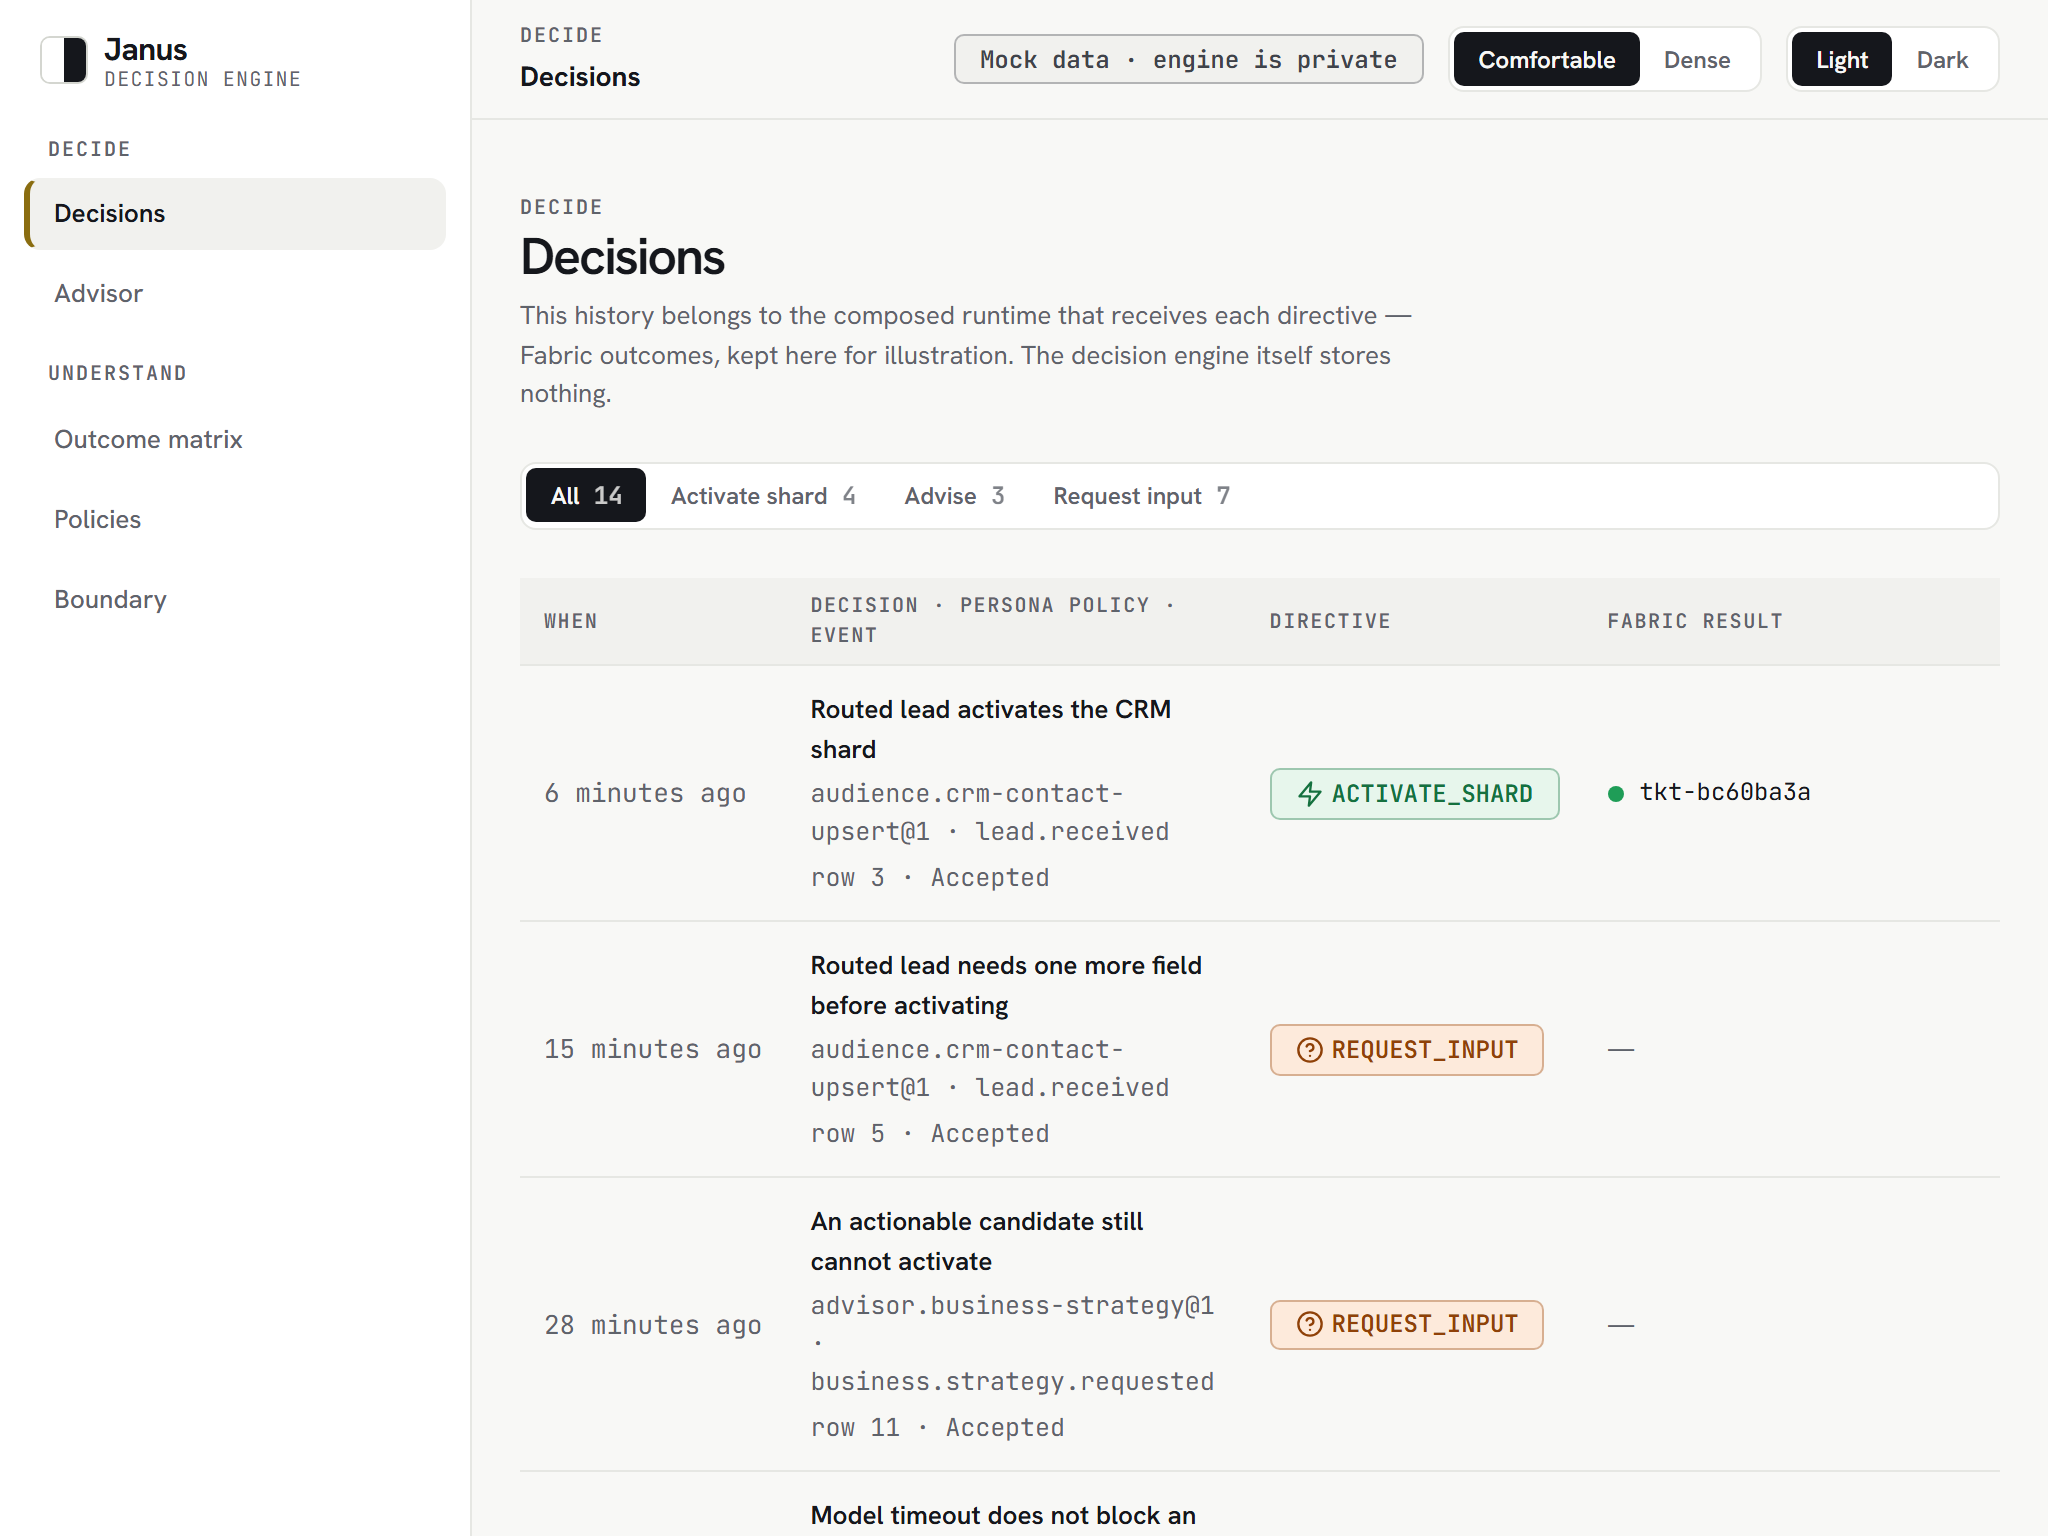
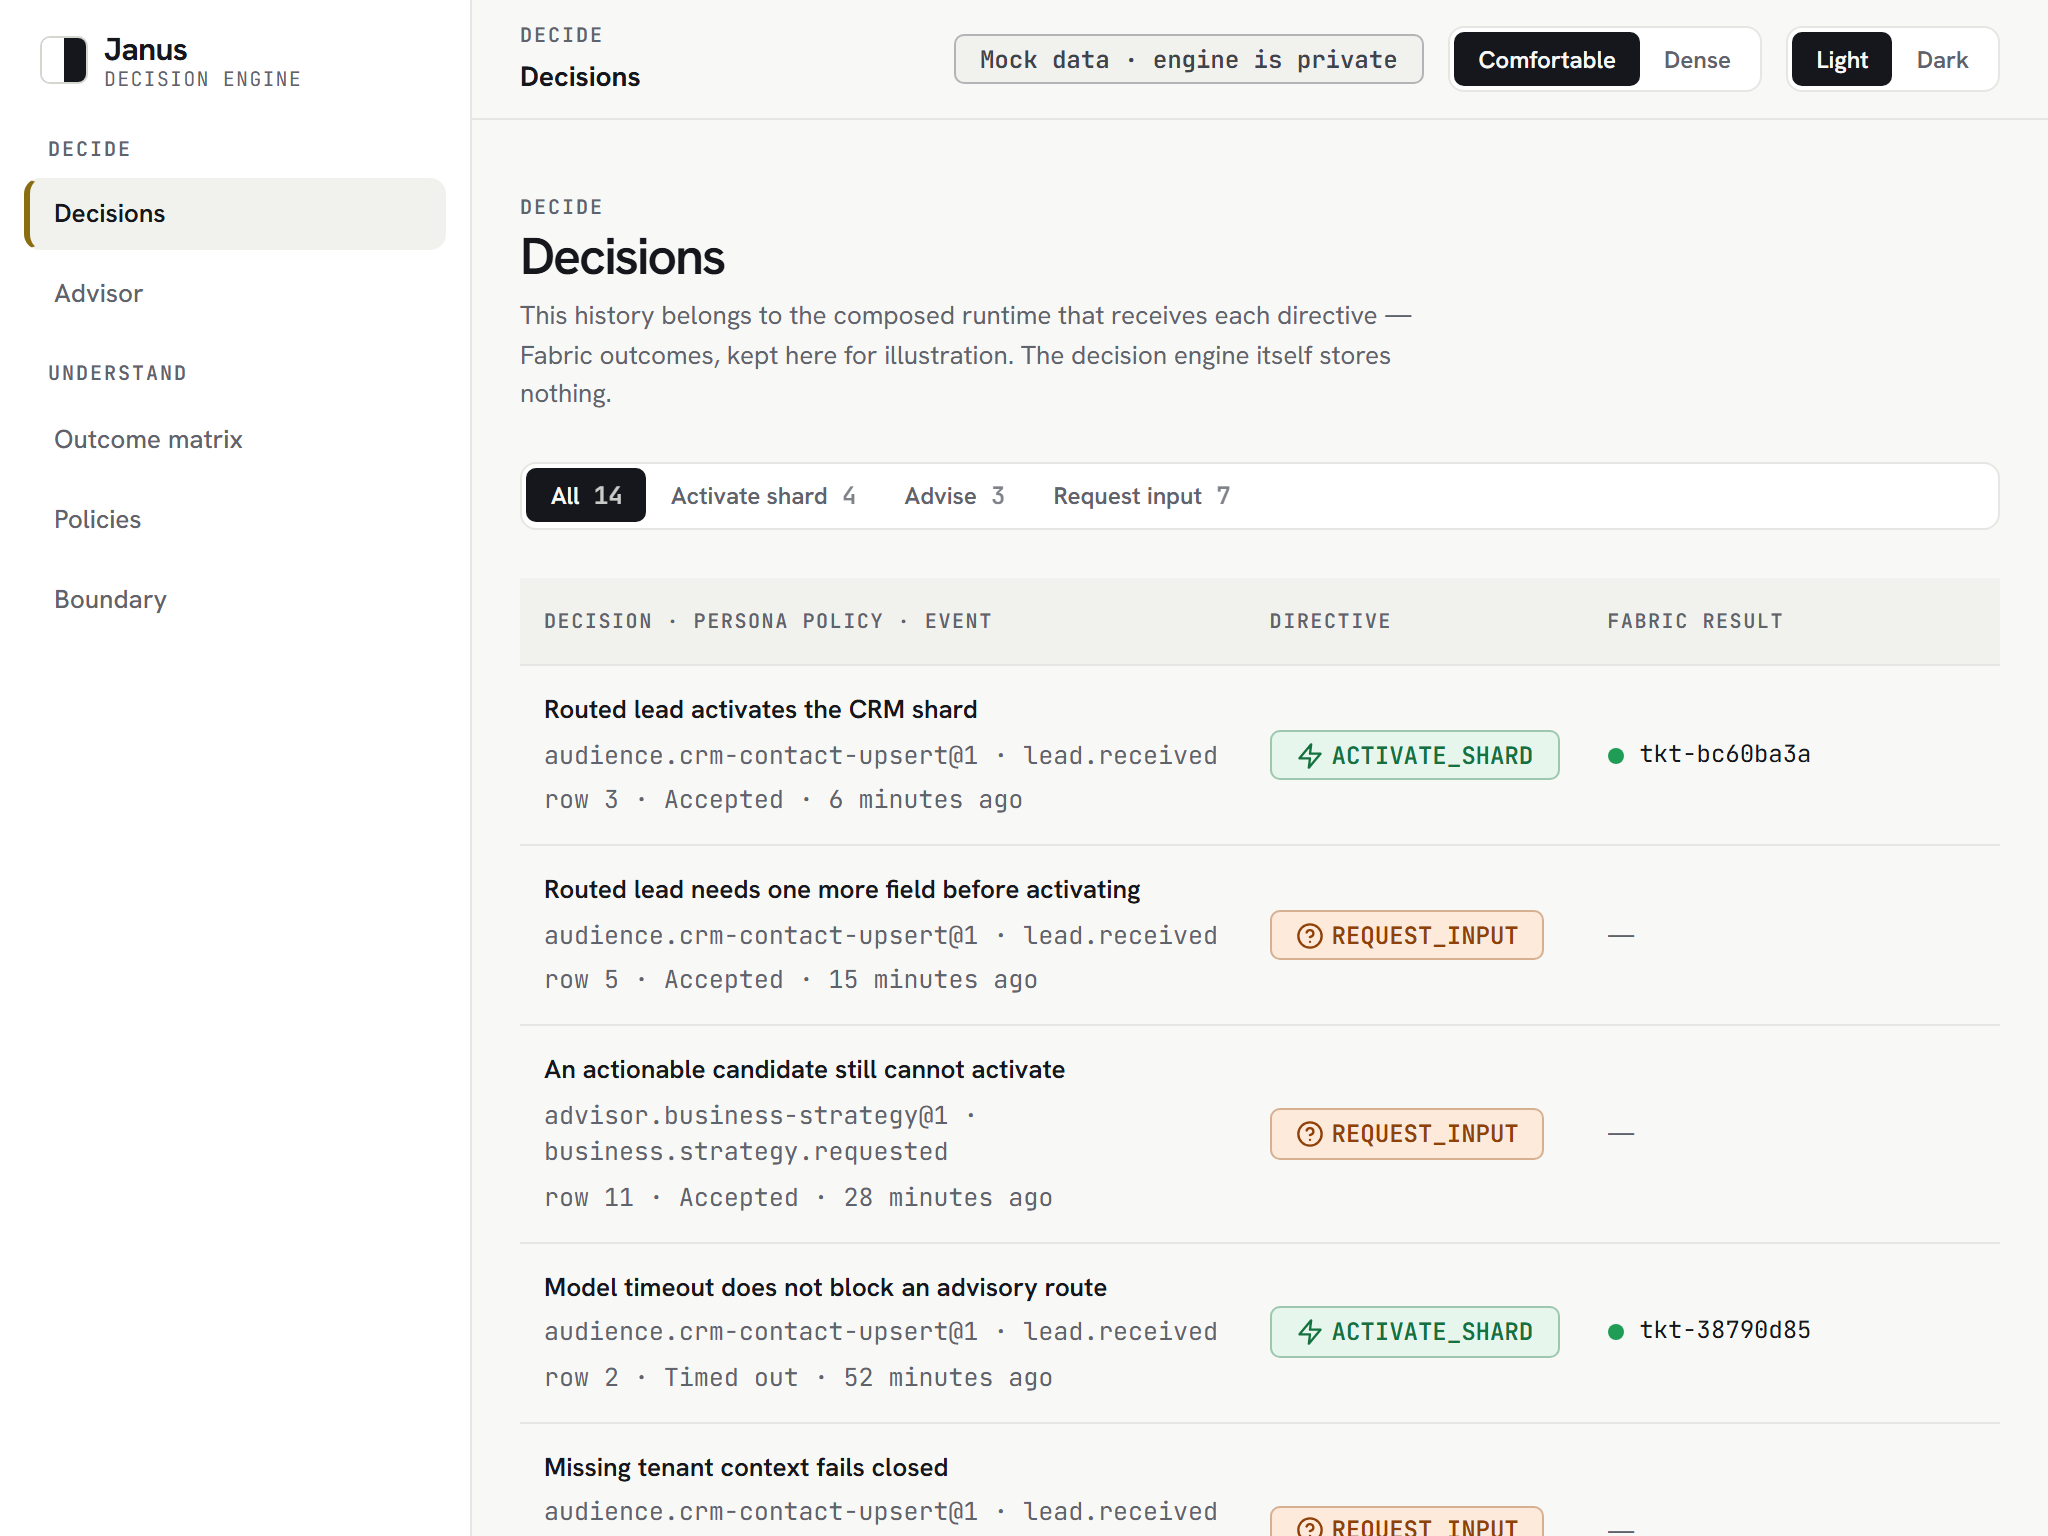
fix(decisions): a landscape tablet folds "When" into the meta line too
At 1024px every ledger column was already at its minimum content width
(141 + 225 + 165 + 190 of a 722px table), so the title had 225px and each row
ran four lines - there was no spare width to redistribute. At <=1100px the When
column joins the line under the title ("row 3 . Accepted . 6 minutes ago"):
rows are three lines and four decisions show on the first screen instead of two.

Verified by looking at the capture, not only by the sweep: 164 unit tests,
lint, viewport sweep 84/84.

diff --git a/src/components/decisions/DecisionsTable.jsx b/src/components/decisions/DecisionsTable.jsx
@@ -30,7 +30,7 @@ export function DecisionsTable({ rows, now, onSelectScenario }) {
         <caption className="visually-hidden">Decision ledger: one row per evaluated request.</caption>
         <thead>
           <tr>
-            <th scope="col">When</th>
+            <th scope="col" className="decisions-table__roomy-only">When</th>
             <th scope="col">Decision · persona policy · event</th>
             <th scope="col">Directive</th>
             <th scope="col" className="decisions-table__wide-only">Matrix row</th>
@@ -43,7 +43,7 @@ export function DecisionsTable({ rows, now, onSelectScenario }) {
             const { scenario, evaluation, fabric } = entry;
             return (
               <tr key={scenario.id} onClick={() => onSelectScenario(scenario.id)}>
-                <td data-label="When" className="decisions-table__when">
+                <td data-label="When" className="decisions-table__when decisions-table__roomy-only">
                   {relativeTimeFromNow(scenario.occurredAt, now)}
                 </td>
                 <td data-label="Decision" className="decisions-table__title-cell">
@@ -73,6 +73,12 @@ export function DecisionsTable({ rows, now, onSelectScenario }) {
                     <span aria-hidden="true"> · </span>
                     <span className="visually-hidden">, model </span>
                     {modelStatusLabel(evaluation.diagnostics.model_status)}
+                    {/* ≤1100px (a landscape tablet) the When column folds in here too. */}
+                    <span className="decisions-table__compact-only">
+                      <span aria-hidden="true"> · </span>
+                      <span className="visually-hidden">, </span>
+                      {relativeTimeFromNow(scenario.occurredAt, now)}
+                    </span>
                   </span>
                 </td>
                 <td data-label="Directive">

diff --git a/src/styles/decisions.css b/src/styles/decisions.css
@@ -60,6 +60,26 @@
   .decisions-table__title-cell {
     min-width: 14rem;
   }
+
+}
+
+/* A landscape tablet (1024px) leaves 740px of content. Measured there, every
+   column was already at its minimum (141 + 225 + 165 + 190 of 722px), so the
+   title had 225px and each row ran four lines: there was no spare width to
+   hand out. The "When" column folds into the meta line too, which gives the
+   title about 140px more. */
+.decisions-table__compact-only {
+  display: none;
+}
+
+@media (max-width: 1100px) {
+  .decisions-table .decisions-table__roomy-only {
+    display: none;
+  }
+
+  .decisions-table__compact-only {
+    display: inline;
+  }
 }
 
 .decisions-table tbody tr {
